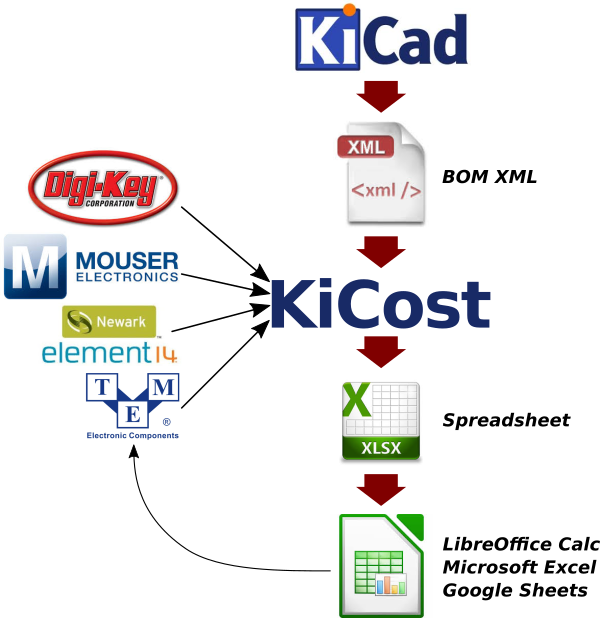
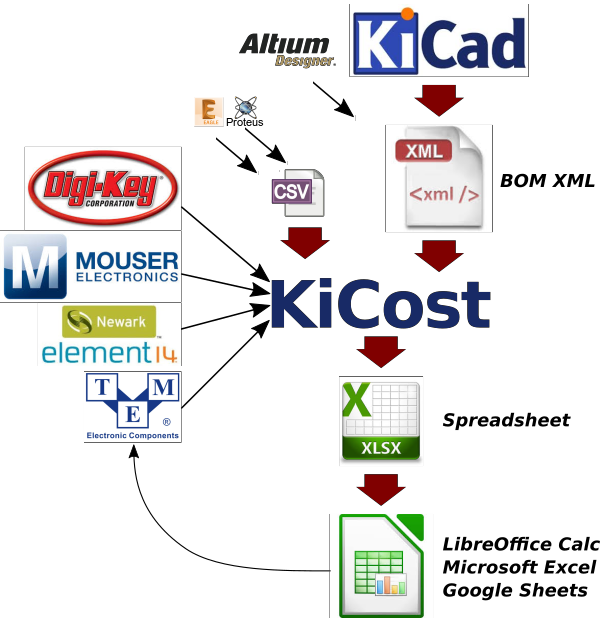
Updated and review docs
Updated and review of the documentation. Add all the new features to `usage.rst` and `version.rst`

diff --git a/docs/usage.rst b/docs/usage.rst
@@ -47,11 +47,11 @@ To create a cost spreadsheet from an XML file exported from KiCad::
 
     kicost -i schem.xml
 
-To create a cost scpredsheet direct from the KiCad `Bill of Material" wizard (use as command line):
+To create a cost spreadsheet direct from the KiCad `Bill of Material" wizard (use as command line):
 
     kicost -i %I
 
-To create a cost scpredsheet direct from the KiCad using the user definitions (by graphical interface last runned):
+To create a cost spreadsheet direct from the KiCad using the user definitions (by graphical interface last runned):
 
     kicost -i %I --user
 
@@ -79,6 +79,10 @@ To create a cost spreadsheet from a CSV file of part data::
 
     kicost -i schem.csv --eda_tool csv
 
+To read and merge different projects BOMs (it is allowed different EDAs)::
+
+    kicost -i bom1.xml bom2.xml bom3.csv -eda kicad altium csv
+
 Now, a friendly user graphical interface was created. To load it, just use `kicost` command without parameters.
 
 .. image:: guide_screen.png
@@ -87,8 +91,7 @@ Now, a friendly user graphical interface was created. To load it, just use `kico
 Custom BOM list
 ------------------------
 
-In addition to XML files output by EDA tools, KiCost also accepts CSV files as a method
-for getting costs of preliminary designs or older projects.
+In addition to XML files output by EDA tools, KiCost also accepts CSV files as a method for getting costs of preliminary designs or older projects.
 The format of the CSV file is as follows:
 
 1. A single column is interpreted as containing manufacturer part numbers.
@@ -173,10 +176,19 @@ For example, you might store information about a part in a "notes" field,
 but that shouldn't exclude the part from a group that had none or different notes.
 That can be prevented in two ways:
 
-#. Use the ``-ignore_fields`` command-line option to make KiCost ignore part fields
+#. Use the ``--ignore_fields`` command-line option to make KiCost ignore part fields
    with certain names::
 
-     kicost -i schematic.xml -ignore_fields notes
+     kicost -i schematic.xml --ignore_fields notes
+
+# Use the ``--group_fields`` to ignore field to group the components. This fields will be
+ignore to group but displayed in the spreadsheet (as a multiline cell)::
+
+     kicost -i schematic.xml --group_fields footprint
+     \# Ignore the footprint to merge, interesting option to multifiles
+     \# BOMs, when each one came from different EDA software or merge
+     \# subparts (e.g. pins of different connector that, for you are of
+     \# the same family).
 
 #. Precede the field name with a ":" such as ``:note``. This makes KiCost ignore the
    field because it is in a different namespace.
@@ -199,12 +211,12 @@ would be two rows in the spreadsheet containing data like this:
     JP6#1  ...  JMP1A45
     JP6#2  ...  SH3QQ5
 
-You can also specify multipliers for each subpart by either prepending or appending
+You can also specify multipliers for each subpart by either appending
 the subpart part number with a multiplier separated by a ":".
 To illustrate, a 2x2 jumper paired with two shunts would have a part number of
 ``JMP2B26; SH3QQ5:2``.
-The multiplier can be either an integer, float or fraction and it can be used
-previous or succeding the part code, e.g. ``SH3QQ5:2`` or ``2:SH3QQ5``.
+The multiplier can be either an integer, float or fraction (e.g. to cable meter)
+and it can be used previous or succeeding the part code, e.g. ``SH3QQ5:2`` or ``2:SH3QQ5``.
 
 ------------------------
 Schematic Variants
@@ -290,8 +302,8 @@ provides additional cues:
    * Red if the part is unavailable.
    * Orange if there is not sufficient quantity of the part available.
 
-#. The ``Unit$`` cell is colored green to indicate the lowest price found
-   across all the distributors.
+#. The ``Unit$`` and ``Ext$`` in each distributor cell is colored green
+to indicate the lowest price found across all the distributors.
 
 -----------------------
 Parallel Web Scraping
@@ -309,9 +321,15 @@ processes you want to spawn::
 
 In addition, you can use the ``--serial`` command-line option to force KiCost
 into single-threaded operation.
-This is equivalent to using ``-num_processes 1``.
+This is equivalent to using ``--num_processes 1``.
 (If you encounter problems running KiCost on a Windows PC with Python 2, then
 using this command may help.)
+
+Some distributors may block sequential access, to workaround this each new scrape
+can be made after a delay by ``--throttling_delay``. In the follow example after
+100ms.
+
+    kicost -i schematic.xml --num_processes 10 --throttling_delay 0.1
 
 ---------------------------------
 Selecting Distributors to Scrape
@@ -365,6 +383,9 @@ Command-Line Options
       -np [NUM_PROCESSES], --num_processes [NUM_PROCESSES]
                             Set the number of parallel processes used for web
                             scraping part data.
+      --throttling_delay [DELAY_SECONDS]
+                            Specify minimum delay (in seconds) between successive
+                            accesses to a distributor's website.
       -ign name [name ...], --ignore_fields name [name ...]
                             Declare part fields to ignore when reading the BoM file.
       -grp name [name ...], --group_fileds name [name ...]
@@ -376,6 +397,7 @@ Command-Line Options
                             originated, or use csv for .CSV files.
       --show_dist_list      Show list of distributors that can be scraped for cost
                             data, then exit.
+      --show_eda_list       Show list of EDA softwares that KiCost can read, then exit.
       -e dist [dist ...], --exclude dist [dist ...]
                             Excludes the given distributor(s) from the scraping
                             process.
@@ -387,6 +409,7 @@ Command-Line Options
                             from a website.
       --user                Start the user guide to run KiCost passing the file
                             parameter give by "--input", all others parameters are ignored.
+
 
 -------------------------------------------------
 Adding KiCost to the Context Menu (Windows Only)

diff --git a/HISTORY.rst b/HISTORY.rst
@@ -8,6 +8,8 @@ ______________________
 
 * Added capability to throttle accesses to distributor websites ``--throttling_delay``. 
 * Added ``show_eda_list`` option to display the list of EDA tools supported by KiCost.
+* Added capability to read more than one BOM file and merge in the spreadsheet.
+* ``--ignore_fields`` ignore the filed on read, added ``--group_fields`` to ignore differences in fileds of the components and group than.
 * CSV now accept files from Proteus and Eagle EDA.
 * Clear up the python importations not used and better placed function into files (spreasheet creation files are now in ``spreadsheet.py``).
 * Added a KiCost stamp version at the end of the spreadsheet and file information in the beginning, if them are not inside it.
